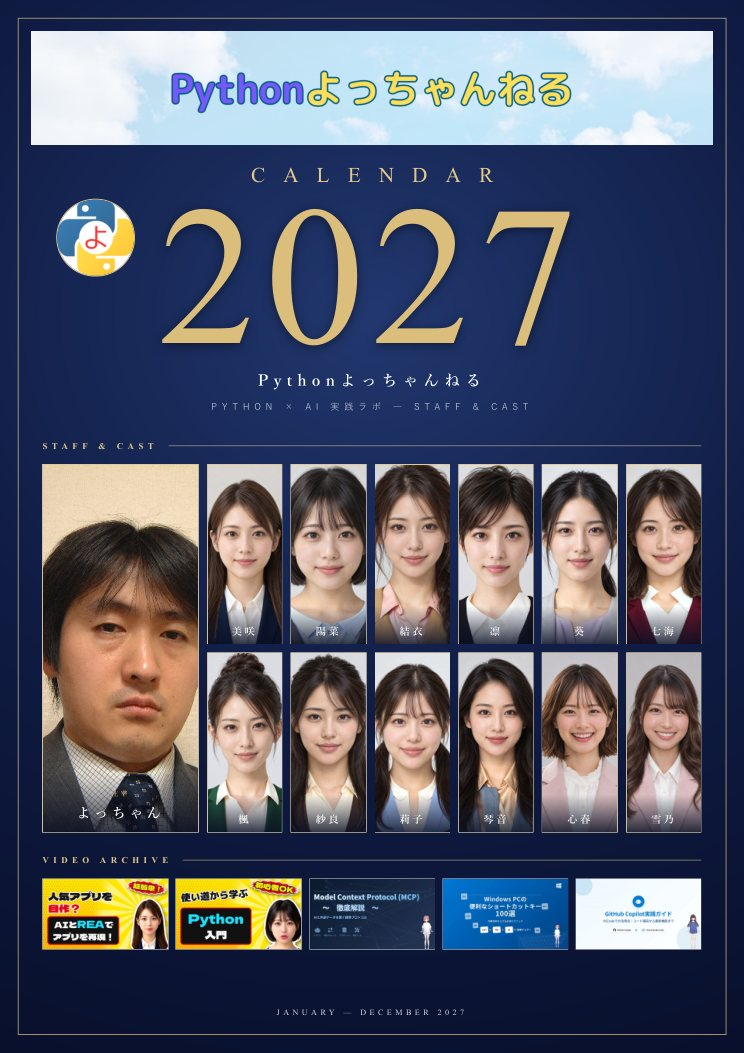
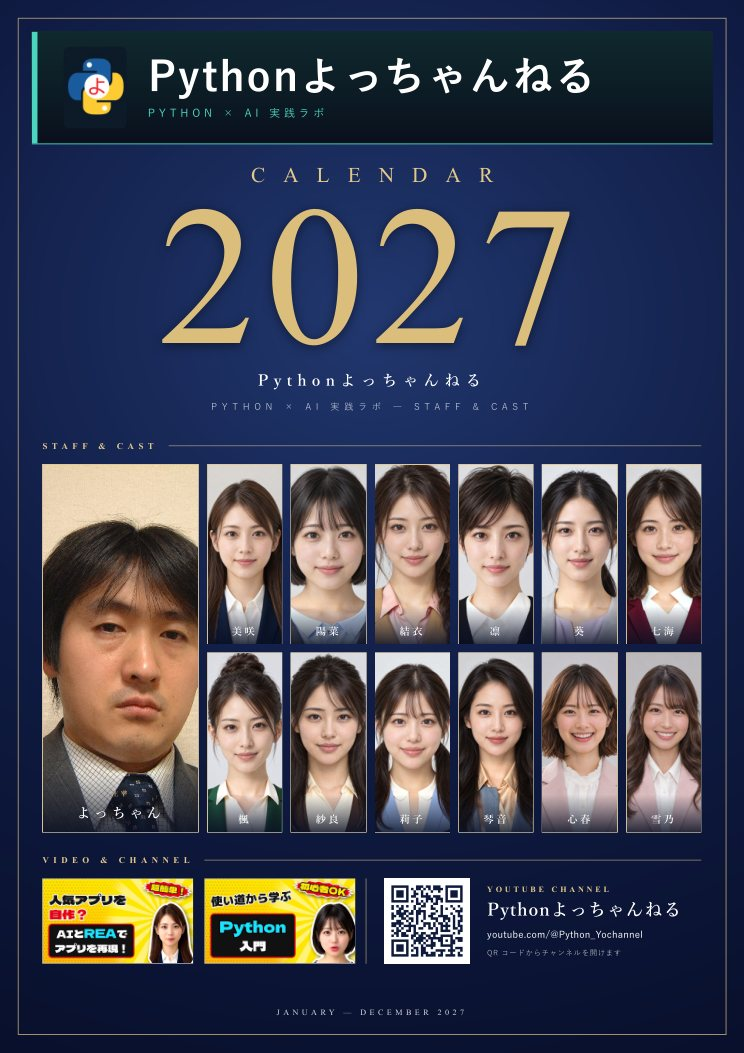
ロゴを最近の動画で使っている新しいものに変更し、カレンダーの見本を更新

Changed region(s): [[0.0309, 0.0304, 0.9583, 0.1519], [0.0618, 0.7901, 0.9583, 0.9421], [0.0618, 0.1823, 0.1855, 0.2735]]

diff --git a/styles.css b/styles.css
@@ -736,7 +736,9 @@ h2 { font-size: clamp(26px, 3.2vw, 38px); }
 .topbar .cta-group { flex-wrap: nowrap; }
 .topbar .cta-group .btn { white-space: nowrap; padding: 10px 14px; font-size: 14px; }
 .topbar .cta-group .btn.ghost { display: none; }
-.logo-mark { background: #fff; }
+.logo-mark { background: #0d1a29; border: 1px solid var(--line); overflow: hidden; }
+.logo-mark img { width: auto; height: 44px; }
+.footer-brand img { width: auto; height: 52px; border-radius: 8px; }
 .brand .eyebrow { color: var(--gold); letter-spacing: 0.18em; font-size: 11px; }
 .nav a:hover { background: rgba(227, 201, 139, 0.14); color: var(--gold); }
 .btn.primary { background: linear-gradient(135deg, #f1dfae, #c9a55c); color: #0b1533; box-shadow: 0 14px 30px rgba(201, 165, 92, 0.3); }

diff --git a/index.html b/index.html
@@ -14,7 +14,7 @@
     <header class="topbar">
       <div class="logo-block">
         <div class="logo-mark">
-          <img src="assets/logo.png" alt="よっチャンネルのロゴ">
+          <img src="assets/logo-new.png" alt="よっチャンネルのロゴ">
         </div>
         <div class="brand">
           <span class="eyebrow">YouTube公式</span>
@@ -487,7 +487,7 @@
 
     <footer class="footer">
       <div class="footer-brand">
-        <img src="assets/logo.png" alt="よっチャンネルのロゴ">
+        <img src="assets/logo-new.png" alt="よっチャンネルのロゴ">
         <div>
           <p class="title">よっチャンネル</p>
           <p class="muted">AIとPythonを身近に感じるためのチャンネル</p>
